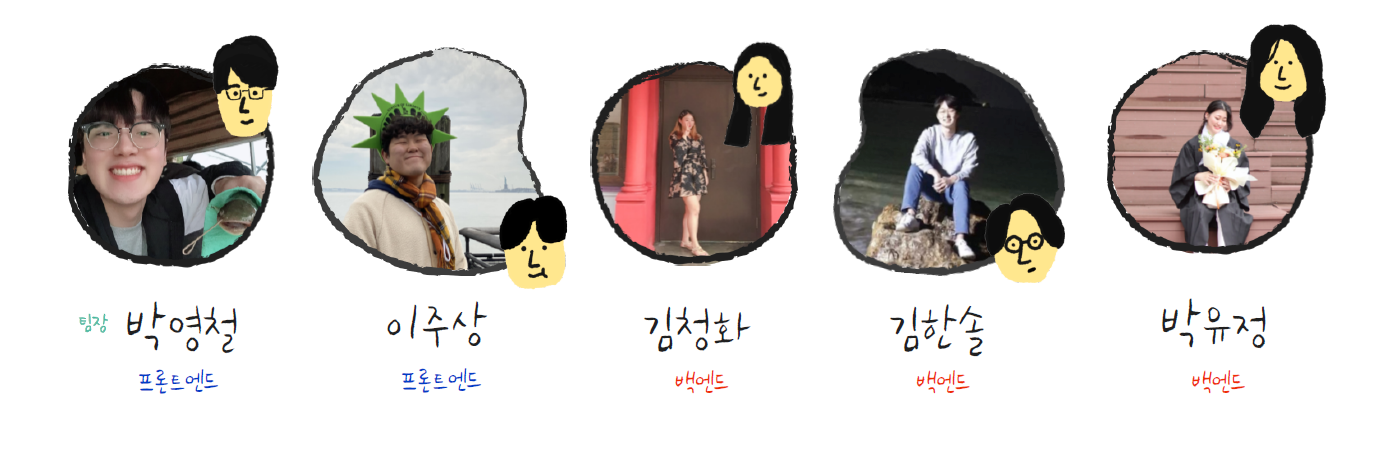
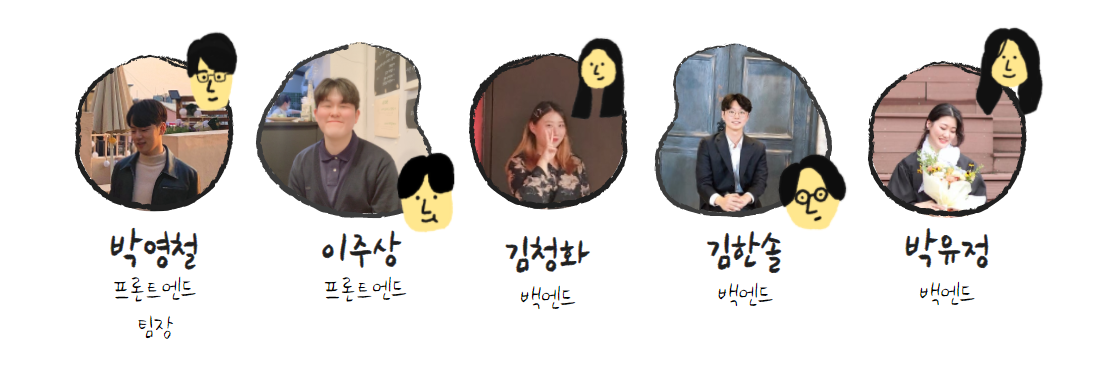
docs: ✏ update README.md

diff --git a/README.md b/README.md
@@ -6,11 +6,46 @@
 
 <br>
 
-## Member 👪
+## Member & Role 👪
 
 **몽실이 제자들(Mongsil's disciples)**
 
 ![MEMBER](./docs/0_images/member.PNG)
+
+#### 박영철(팀장)
+
+- FrontEnd
+- Client 로그인, 비즈니스 로직, 프레젠테이션 로직 담당
+- Client OpenVidu와 STOMP 기능 구축 및 연동
+- 프로젝트 관리
+
+#### 김청화
+
+- BackEnd
+- Redis와 JWT토큰을 사용한 회원인증 API 구축
+- MSA 아키텍쳐를 활용한 서버 구축
+- 영상 제작 및 발표자료 준비
+
+#### 김한솔
+
+- BackEnd
+- Scale out을 고려하여 Redis pub/sub 시스템을 활용한 STOMP서버 구축
+- OpenVidu를 활용한 영상공유 시그널 서버 구축
+- 프로젝트 문서화
+
+#### 박유정
+
+- BackEnd
+- Spring Data JPA를 활용한 Desk API 구축
+- Jenkins 적용을 비롯한 배포 담당
+- 영상 제작 및 발표자료 준비
+
+#### 이주상
+
+- FrontEnd
+- Client UI/UX 담당
+- Storybook을 활용한 디자인 시스템 구축
+- 발표 및 발표자료 제작
 
 <br>
 
@@ -48,13 +83,13 @@
 
   공부 달력, 다짐, 메모, D-DAY 등 내 책상을 꾸미며 자신의 공부를 관리
 
-- **타이머 기능(Timer)**
+- **실시간 스터디 타이머(Timer)**
 
   자신의 상태(공부, 휴식)에 따라 자동으로 시간을 기록.
 
   타인의 공부 시간을 보며 자극을 받음
 
-- **공부 달력(Study Calendar)**
+- **스터디 캘린더(Study Calendar)**
 
   공부한 시간만큼 진하기를 달리하여 공부량을 시각적으로 확인. 
 
@@ -171,13 +206,16 @@
 
 <br>
 
-### 🔨Tech Stack 
+### 🔨Tech Stack
 
-- **BackEnd : SpringBoot, Redis, Mariadb**
+- **Common** : OpenVidu, Sock.js, WebStomp
 
-- **FrontEnd : Vue.js**
+- **BackEnd** : Spring, JPA ,Redis, Docker, MariaDB, JWT, Jenkins
+- **FrontEnd** : Vue.js, Storybook, Lottie, Figma, Adobe Tools(after effects, illustrator)
 
 ![tech stack](./docs/0_images/techstack.PNG)
+
+<!-- 발표 ppt가 완성되면 이곳에 기술스택 이미지를 삽입한다 -->
 
 <br>
 
@@ -189,7 +227,7 @@
 
 <br>
 
-### :mag: Pages in Detail 
+### :mag: Pages in Detail
 
 > 각 페이지별 소개
 
